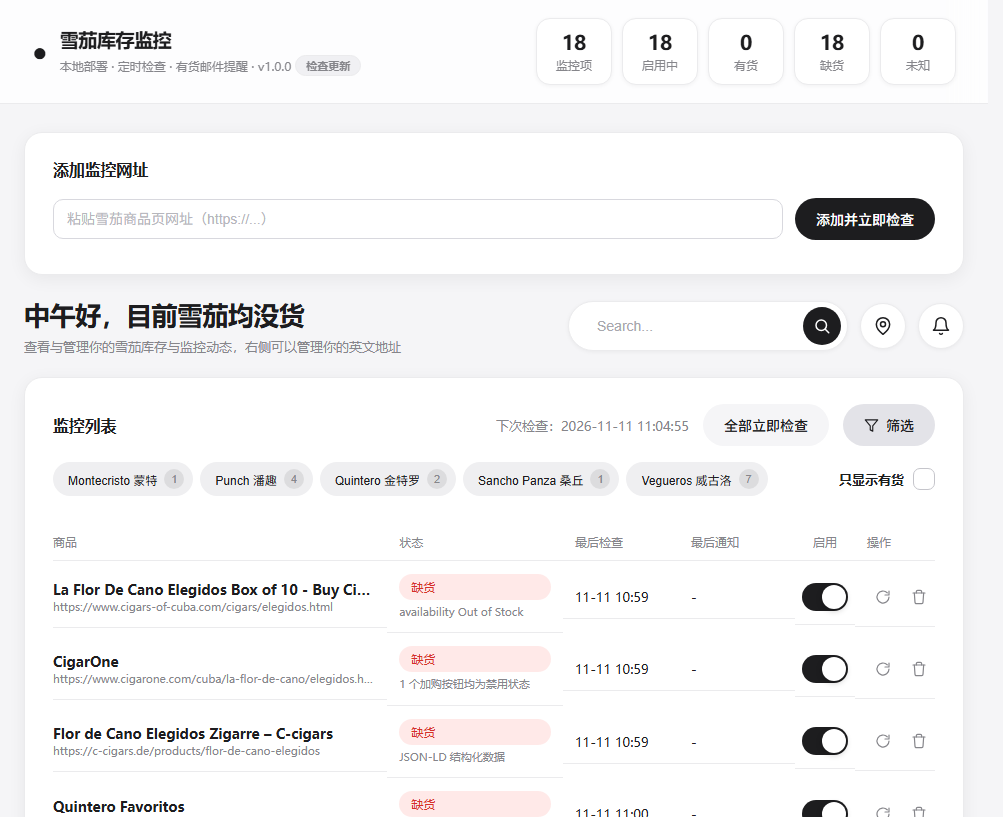
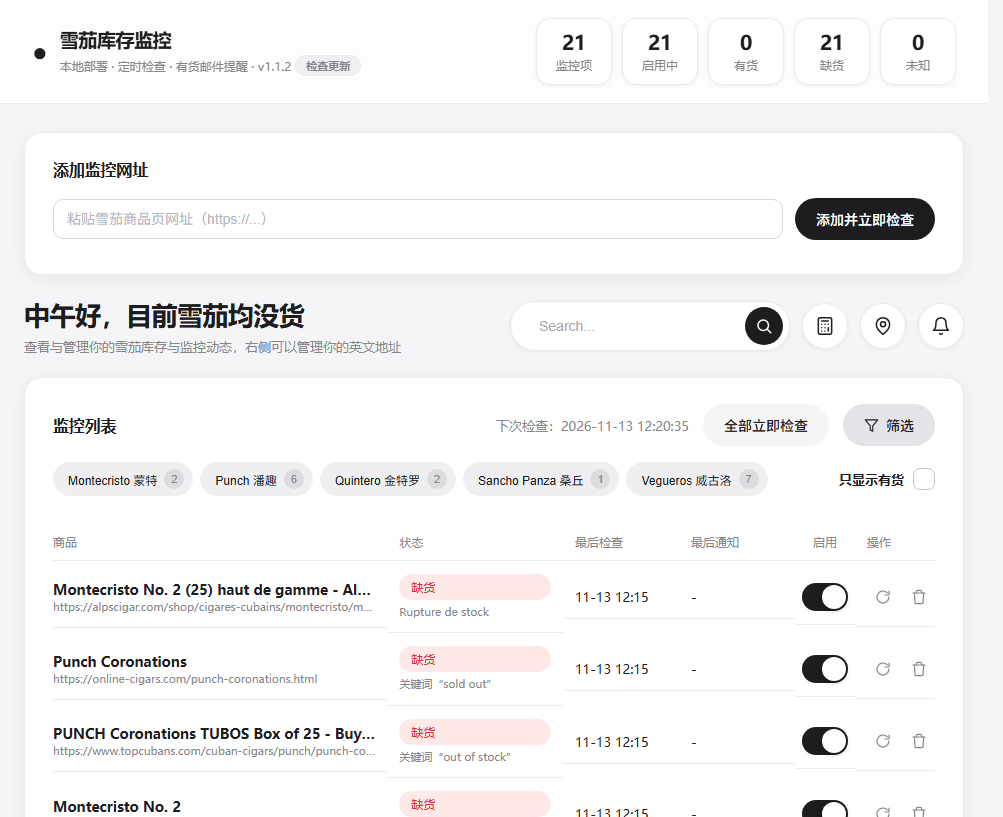
README：界面预览恢复三列布局，三张截图重截以包含计算器按钮

diff --git a/README.md b/README.md
@@ -19,28 +19,20 @@ CigarMonitor 是一个**本地部署的雪茄库存监控工具**：把商品页
 
 <table>
   <tr>
-    <td width="50%">
+    <td width="33%">
       <img src="./assets/readme/shot-main.png" width="100%" alt="主界面与监控列表，缺货状态一目了然">
     </td>
-    <td width="50%">
+    <td width="33%">
       <img src="./assets/readme/shot-search.png" width="100%" alt="中文搜索与品牌标签，搜威古洛即可找到对应商品">
+    </td>
+    <td width="33%">
+      <img src="./assets/readme/shot-filter.png" width="100%" alt="品牌标签在英文后标注中文，支持按品牌与有货筛选">
     </td>
   </tr>
   <tr>
     <td align="center"><b>监控总览</b></td>
     <td align="center"><b>中文搜索</b></td>
-  </tr>
-  <tr>
-    <td width="50%">
-      <img src="./assets/readme/shot-filter.png" width="100%" alt="品牌标签在英文后标注中文，支持按品牌与有货筛选">
-    </td>
-    <td width="50%">
-      <img src="./assets/readme/shot-calculator.png" width="100%" alt="雪茄到手计算器，按海关汇率与实时市场汇率计算到手总价与单支">
-    </td>
-  </tr>
-  <tr>
     <td align="center"><b>品牌筛选</b></td>
-    <td align="center"><b>到手计算器</b></td>
   </tr>
 </table>
 
@@ -57,11 +49,6 @@ CigarMonitor 是一个**本地部署的雪茄库存监控工具**：把商品页
 <details>
 <summary>查看「品牌筛选」大图</summary>
 <img src="./assets/readme/shot-filter.png" alt="品牌标签在英文后标注中文，支持按品牌与有货筛选">
-</details>
-
-<details>
-<summary>查看「到手计算器」大图</summary>
-<img src="./assets/readme/shot-calculator.png" alt="雪茄到手计算器，按海关汇率与实时市场汇率计算到手总价与单支">
 </details>
 
 ## 功能特性
